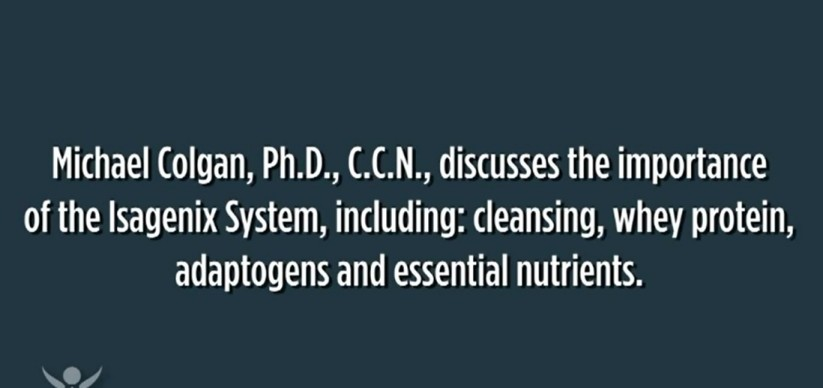
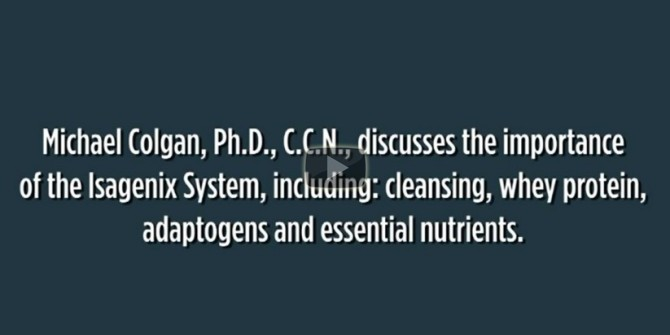
Implemented Solution page.

diff --git a/src/pages/solution/solution.html b/src/pages/solution/solution.html
@@ -10,5 +10,70 @@
   </ion-navbar>
 </ion-header>
 <ion-content>
+  <main>
+    <!-- Cleanse Image -->
+    <section>
+      <img sizes="(max-width: 1701px) 100vw" src="../../assets/imgs/cleanse-carol-elizabeth/cleanse-carol-elizabeth-1701.jpg" alt="Cleanse for a Healthier Life"
+        srcset="../../assets/imgs/cleanse-carol-elizabeth/cleanse-carol-elizabeth-400.jpg 400w,
+                ../../assets/imgs/cleanse-carol-elizabeth/cleanse-carol-elizabeth-975.jpg 975w,
+                ../../assets/imgs/cleanse-carol-elizabeth/cleanse-carol-elizabeth-1380.jpg 1380w,
+                ../../assets/imgs/cleanse-carol-elizabeth/cleanse-carol-elizabeth-1701.jpg 1701w" />
+    </section>
+    <article>
+      <ion-grid>
+        <!-- Are You Toxic? -->
+        <ion-row>
+          <ion-col col-12 col-lg id="toxic1">
+            <img src="../../assets/imgs/misc/are-you-toxic.jpg" alt="Are You Toxic Video" (click)="openVideoModal('toxic')" />
+          </ion-col>
+          <ion-col col-12 col-lg class="col-right">
+            <h1>ARE YOU TOXIC?</h1>
+            <p>
+              Addresses the concerns of living in a world that is TOXIC and a food supply that is DEFICIENT which are major contributors
+              to chronic disease and obesity. Offering a solution with Isagenix – The World Leader in Deep Cellular Nutritional
+              Cleansing and Fat burning system</p>
+          </ion-col>
+          <ion-col col-12 col-lg id="toxic2">
+            <img src="../../assets/imgs/misc/are-you-toxic.jpg" alt="Are You Toxic Video" (click)="openVideoModal('toxic')" />
+          </ion-col>
+        </ion-row>
+
+        <!-- Nutritional Cleansing -->
+        <ion-row>
+          <ion-col col-12 col-lg id="cleansing1">
+            <img src="../../assets/imgs/misc/mary.jpg" alt="Nutritional Cleansing Video" (click)="openVideoModal('cleansing')" />
+          </ion-col>
+          <ion-col col-12 col-lg class="col-left">
+            <h1>NUTRITIONAL CLEANSING</h1>
+            <p>
+              Discusses a life style change with Nutritional Cleansing by addressing two major issues of environmental toxicity and nutritional
+              deficiency and the benefits of Isagenix products.
+            </p>
+          </ion-col>
+          <ion-col col-12 col-lg id="cleansing2">
+            <img src="../../assets/imgs/misc/mary.jpg" alt="Nutritional Cleansing Video" (click)="openVideoModal('cleansing')" />
+          </ion-col>
+        </ion-row>
+      </ion-grid>
+
+      <!-- Why Isagenix Works -->
+      <ion-row>
+        <ion-col col-12 col-lg id="isaWorks1">
+          <img src="../../assets/imgs/misc/michael.jpg" alt="Why Isagenix Works Video" (click)="openVideoModal('isa-works')" />
+        </ion-col>
+        <ion-col col-12 col-lg class="col-right">
+          <h1>WHY ISAGENIX WORKS</h1>
+          <p>
+            Dr. Michael Colgan is a leading visionary in the field of healthy aging and athletic performance. He shares his insight as
+            to WHY our bodies NEED the nutrients provided by Isagenix. Focusing on the power of the System and undenatured
+            Whey Protein.</p>
+        </ion-col>
+        <ion-col col-12 col-lg id="isaWorks2">
+          <img src="../../assets/imgs/misc/michael.jpg" alt="Why Isagenix Works Video" (click)="openVideoModal('isa-works')" />
+        </ion-col>
+      </ion-row>
+    </article>
+  </main>
+
   <get-footer></get-footer>
 </ion-content>

diff --git a/src/pages/solution/solution.ts b/src/pages/solution/solution.ts
@@ -1,5 +1,5 @@
 import { Component } from "@angular/core";
-import { IonicPage, NavController, NavParams } from "ionic-angular";
+import { IonicPage, NavController, ModalController } from "ionic-angular";
 
 @IonicPage()
 @Component({
@@ -7,5 +7,38 @@ import { IonicPage, NavController, NavParams } from "ionic-angular";
   templateUrl: "solution.html"
 })
 export class SolutionPage {
-  constructor(public navCtrl: NavController, public navParams: NavParams) {}
+  constructor(public navCtrl: NavController, private modalCtrl: ModalController) {}
+
+  openVideoModal(video: string) {
+    var data: any;
+
+    switch (video) {
+      case "toxic":
+        data = {
+          name: "Are You Toxic?",
+          url:
+            "https://firebasestorage.googleapis.com/v0/b/globalexecteam-2018.appspot.com/o/videos%2FAre-You-Toxic_-Isagenix-Promo-Length-YouTube-360p.mp4?alt=media&token=786d30b2-ebb6-41b6-82f3-fc5a68645c94"
+        };
+        break;
+
+      case "cleansing":
+        data = {
+          name: "Nutritional Cleansing",
+          url:
+            "https://firebasestorage.googleapis.com/v0/b/globalexecteam-2018.appspot.com/o/videos%2FMary-Evans-on-the-power-of-the-Isagenix-System---YouTube-(480p).mp4?alt=media&token=8cb0b61a-7d39-4871-a5f2-c50e2f007b2f"
+        };
+        break;
+
+      case "isa-works":
+        data = {
+          name: "Why Isagenix Works",
+          url:
+            "https://firebasestorage.googleapis.com/v0/b/globalexecteam-2018.appspot.com/o/videos%2FMichael.mp4?alt=media&token=cb23a367-b6b9-48e5-8a9a-d4ee9db8c4f4"
+        };
+        break;
+    }
+
+    const myModal = this.modalCtrl.create("VideoModalPage", data);
+    myModal.present();
+  }
 }

diff --git a/src/pages/solution/solution.scss b/src/pages/solution/solution.scss
@@ -1,3 +1,82 @@
 page-solution {
+  article {
+    max-width: 95vw;
+    margin-left: auto;
+    margin-right: auto;
+  }
 
+  main {
+    margin-bottom: 20px;
+  }
+
+  p {
+    text-align: justify;
+    letter-spacing: 0.1em;
+  }
+
+  ion-col img {
+    box-shadow: 0px 0px 30px black;
+  }
+
+  .title {
+    font-style: italic;
+  }
+
+  ion-row {
+    border-bottom: 1px solid #aaa;
+    margin-bottom: 5px;
+    padding-bottom: 20px;
+  }
+
+  #toxic1,
+  #cleansing1,
+  #isaWorks1 {
+    display: none;
+  }
+
+  #toxic2,
+  #cleansing2,
+  #isaWorks2 {
+    display: block;
+  }
+
+  @media (min-width: 768px) {
+    article {
+      max-width: 85vw;
+      margin-left: auto;
+      margin-right: auto;
+    }
+  }
+
+  @media (min-width: 992px) {
+    article {
+      max-width: 75vw;
+      margin-left: auto;
+      margin-right: auto;
+    }
+
+    ion-col img {
+      margin-top: 20px;
+    }
+
+    .col-right {
+      margin-left: 20px;
+    }
+
+    .col-left {
+      margin-right: 20px;
+    }
+
+    #toxic1,
+    #cleansing2,
+    #isaWorks1 {
+      display: block;
+    }
+
+    #toxic2,
+    #cleansing1,
+    #isaWorks2 {
+      display: none;
+    }
+  }
 }
